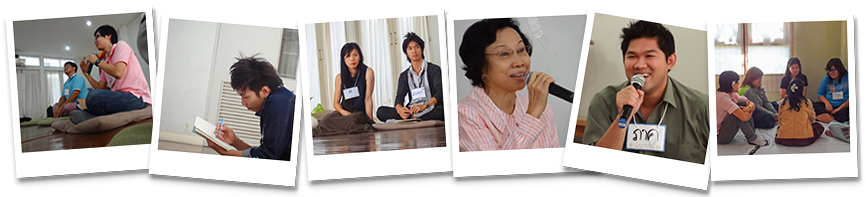
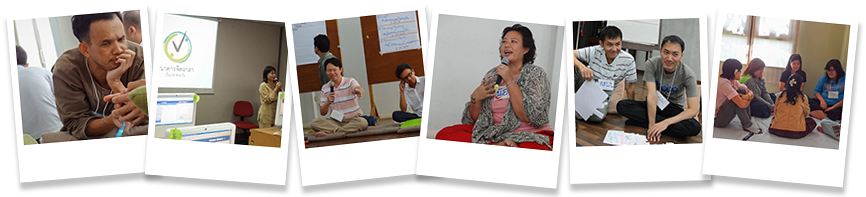
Added/ edited img

diff --git a/application/views/donation.php b/application/views/donation.php
@@ -11,15 +11,15 @@
 		<div id="bannerRotating">
 			<div id="carouselBanner">
 				<div id="slide01" class="slide">
-					<img src="<?= url::base(); ?>media/img/long_banner.png">
+					<img src="<?= url::base(); ?>media/img/long_banner5.png">
 				</div>
 						
 				<div id="slide02" class="slide">
-					<img src="<?= url::base(); ?>media/img/long_banner.png">
+					<img src="<?= url::base(); ?>media/img/long_banner7.png">
 				</div>
 						
 				<div id="slide03" class="slide">
-					<img src="<?= url::base(); ?>media/img/long_banner.png">
+					<img src="<?= url::base(); ?>media/img/long_banner9.png">
 				</div>
 					
 			</div>
@@ -38,7 +38,7 @@
 		
 		<br><div id="content">
 			<img src="<?= url::base(); ?>media/img/about_01.jpg" style="float:right">
-			<img src="<?= url::base(); ?>media/img/about_01.jpg" style="float:right;clear:both;">
+			<img src="<?= url::base(); ?>media/img/about_02.jpg" style="float:right;clear:both;">
 			<p>“การให้เวลาคือการมอบสมบัติล้ำค่า” เห็นจะเป็นคำพูดที่ไม่เกินจริงเลยสำหรับธนาคารจิตอาสา เพราะเราก็ได้รับสิ่งนี้มาเหมือนกัน ในช่วงที่ผ่านมาระหว่าที่ธนาคารจิตอาสาสามารถออกเดินทาง พัฒนาขึ้น และได้มอบสิ่งที่มีคุณค่าแก่สังคม เพราะเราได้รับการสนับสนุนจากกัลยาณมิตร จากผู้คนมากมายที่มีเมล็ดพันธุ์จิตอาสาในหัวใจ มาแบ่งปันแรงกาย ความตั้งใจ และเวลา แต่ ณ ที่นี้ ธนาคารจิตอาสาจะขอกล่าวคำขอบคุณแด่อาสาที่ร่วมเดินทางมากับเราตั้งแต่เริ่มต้น ได้แก่ <i><b>คุณอัญชลี ศรีนวลวงศ์ (นักโฆษณา พนักงานบริษัทเอกชน), คุณพงศ์รบ สายสุวรรณ (วิศวกรคอมพิวเตอร์ อาชีพอิสระ), คุณอุดมศักดิ์ ดอนขำไพร (วิศวกรคอมพิวเตอร์ พนักงานบริษัทเอกชน) และ คุณวรานนท์ ทองแกม (วิศวกรคอมพิวเตอร์ พนักงานบริษัทเอกชน) </b></i>ที่ได้แบ่งปันเวลา ทักษะและความสามารถของตนร่วมพัฒนาระบบธนาคารจิตอาสาตั้งแต่เริ่มโครงการฯ จนถึงปัจจุบัน สิ่งที่เราได้รับนั้นมีค่ามากกว่าแค่ผลงานที่เกิดขึ้น แต่มันคือสิ่งที่ทำให้เราสัมผัสและรับรู้ได้ว่าสังคมนี้ยังอุดมไปด้วยความรัก ความสุข และการช่วยเหลือเกื้อกูลกัน </p>
 
 			<p>ธนาคารจิตอาสาเป็นพื้นที่ให้ทุกคนได้เข้ามาใช้เพื่อประกาศความตั้งใจที่จะแบ่งปันเวลาให้กับสังคม เวลาเหล่านี้คือทุนของความมุ่งมั่นตั้งใจของคนไทยทั้งประเทศเป็นทุน และหลักประกันความมั่นคงของ

diff --git a/application/views/news/index.php b/application/views/news/index.php
@@ -14,15 +14,15 @@
 		<div id="bannerRotating">
 			<div id="carouselBanner">
 				<div id="slide01" class="slide">
-					<img src="<?= url::base(); ?>media/img/long_banner.png">
+					<img src="<?= url::base(); ?>media/img/long_banner6.png">
 				</div>
 						
 				<div id="slide02" class="slide">
-					<img src="<?= url::base(); ?>media/img/long_banner.png">
+					<img src="<?= url::base(); ?>media/img/long_banner4.png">
 				</div>
 						
 				<div id="slide03" class="slide">
-					<img src="<?= url::base(); ?>media/img/long_banner.png">
+					<img src="<?= url::base(); ?>media/img/long_banner8.png">
 				</div>
 					
 			</div>

diff --git a/application/views/welcome.php b/application/views/welcome.php
@@ -1,7 +1,7 @@
 <div id="home">
   <div id="main" role="main">
 		<?php include Kohana::find_file('views', 'shared/accountinfo') ?>
-		<div id="banner"><img src="<?= url::base(); ?>media/img/banner_welcome.png" /></div>
+		<div id="banner"><img src="<?= url::base(); ?>media/img/banner_welcome1.png" /></div>
 		
 		<div id="videoRotating">
 			<div id="carousel">
